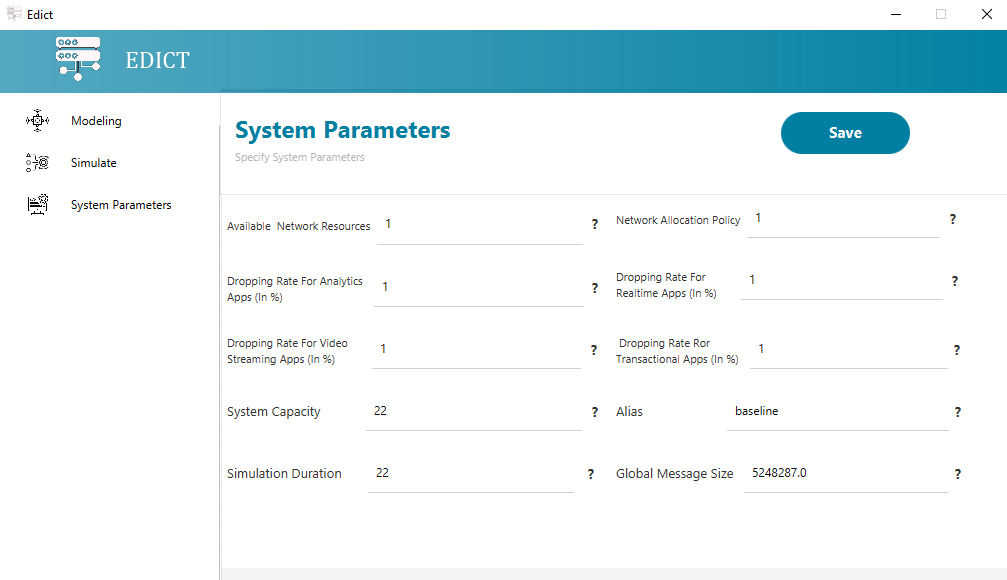
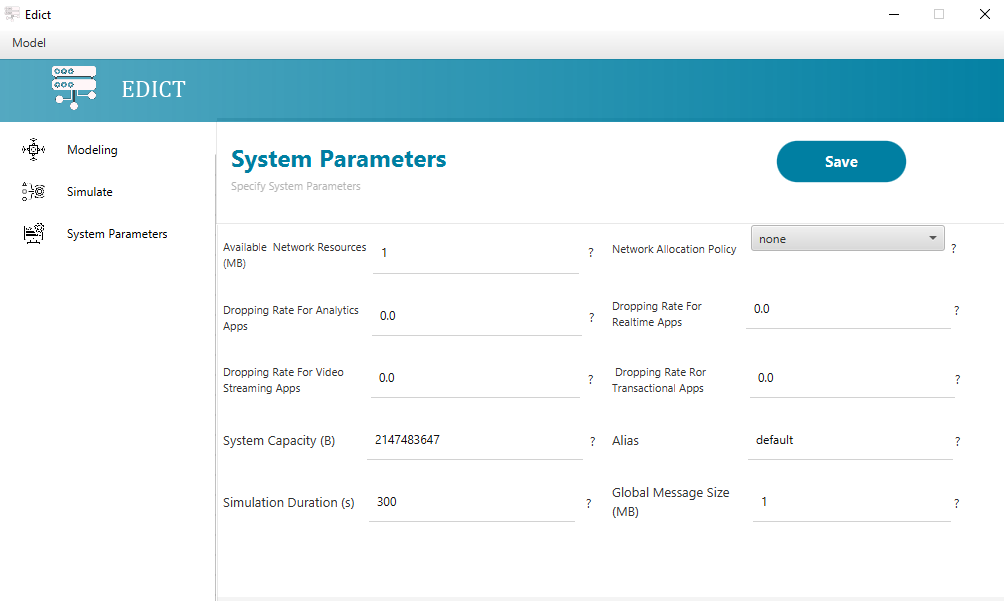
Updated system parameters

diff --git a/edict--gui/src/main/java/home/HomeController.java b/edict--gui/src/main/java/home/HomeController.java
@@ -125,11 +125,6 @@ public class HomeController implements Initializable {
                 durationField.setText(newValue.replaceAll("[^\\d]", ""));
             }
         });
-//        messageField.textProperty().addListener((observable, oldValue, newValue) -> {
-//            if (!newValue.matches("\\d*")) {
-//                messageField.setText(newValue.replaceAll("[^\\d]", ""));
-//            }
-//        });
         if (!systemSpecifications.loadSystemSpecifications())
             createSystemSpecifications();
         initializeSystemSpecifications();
@@ -317,7 +312,7 @@ public class HomeController implements Initializable {
         systemSpecifications.setSystemBandwidth(10);
         systemSpecifications.setSimulationDuration(10);
         systemSpecifications.setAlias("default");
-        systemSpecifications.setGlobalMessageSize(50);
+        systemSpecifications.setGlobalMessageSize(1);
         systemSpecifications.saveSystemSpecifications();
 
     }

diff --git a/edict--gui/src/main/java/guimodel/SystemSpecifications.java b/edict--gui/src/main/java/guimodel/SystemSpecifications.java
@@ -180,7 +180,7 @@ public class SystemSpecifications {
 					else if(parts[0].equals("Alias"))
 						alias = parts[1];
 					else if(parts[0].equals("GlobalMessageSize"))
-						globalMessageSize = Integer.parseInt(parts[1]);
+						globalMessageSize = Double.parseDouble(parts[1]);
 					line = br.readLine();
 				}
 				br.close();
